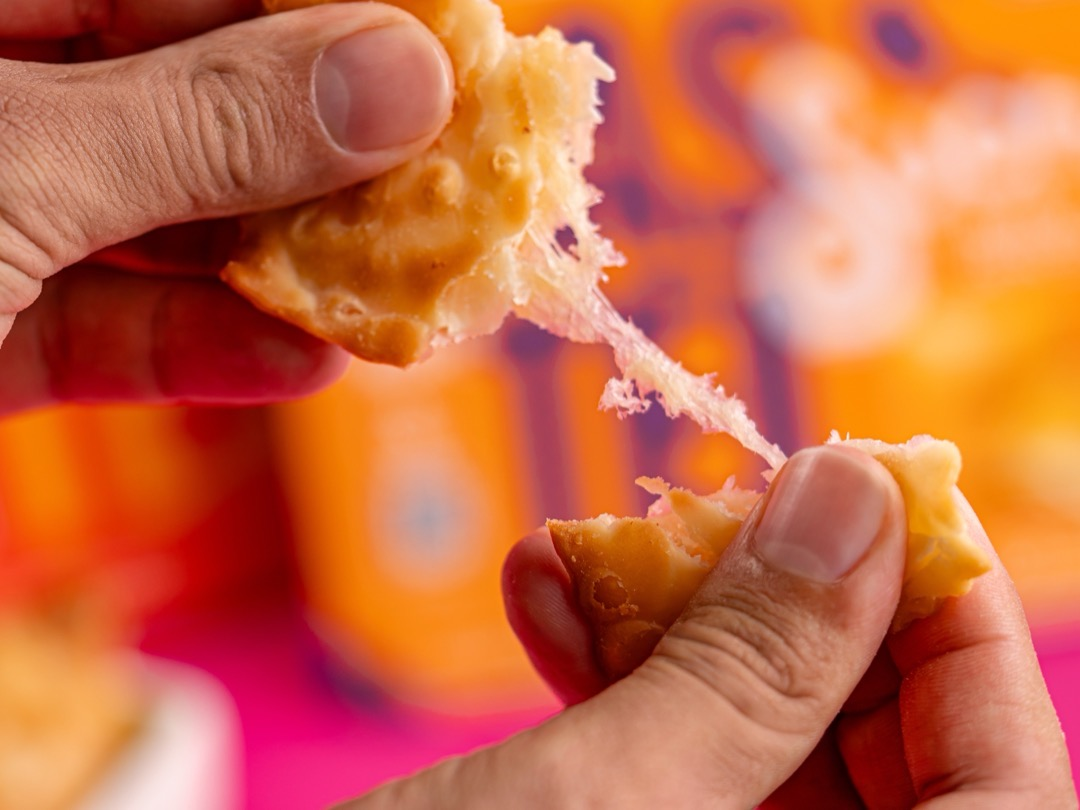
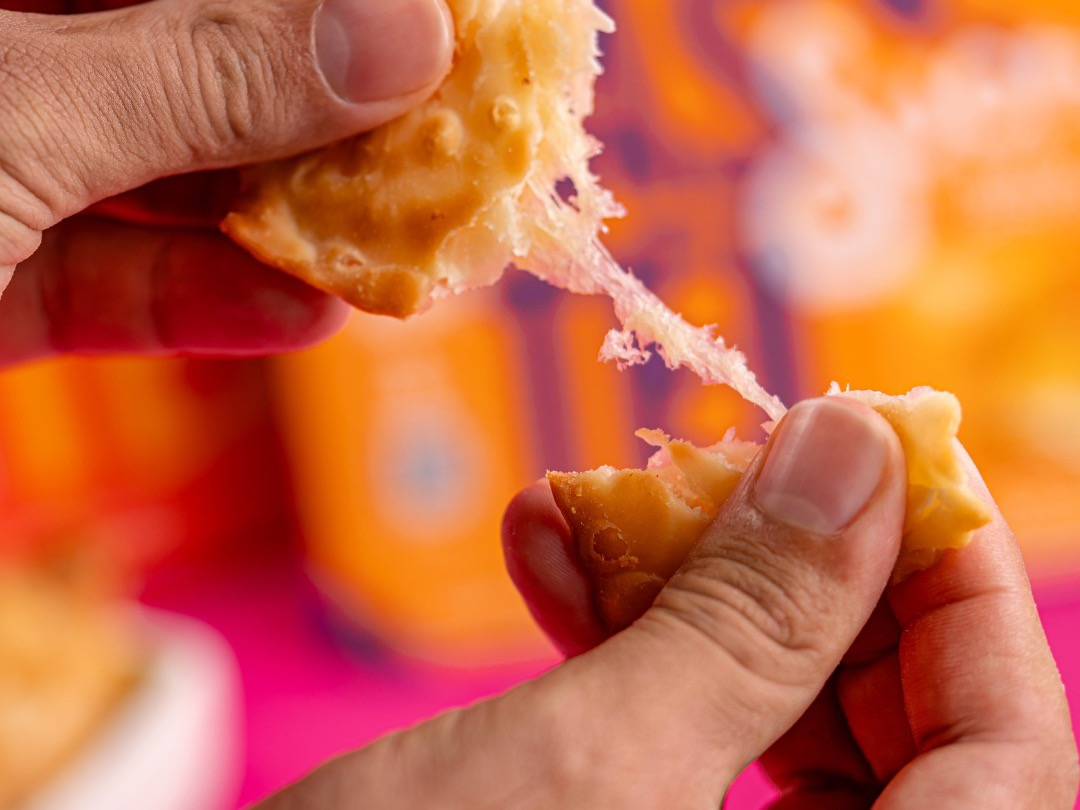
Fotos appetite v2 (anexos da Lia): Bolaço mordido com prime rib entra na seção e no hover do card; coxinha de frango e pastel atualizados; grid 4:5

diff --git a/index.html b/index.html
@@ -19,7 +19,7 @@
   <link rel="preconnect" href="https://fonts.googleapis.com" />
   <link rel="preconnect" href="https://fonts.gstatic.com" crossorigin />
   <link href="https://fonts.googleapis.com/css2?family=Fredoka:wght@400;500;600;700&family=Nunito:wght@400;600;700;800&display=swap" rel="stylesheet" />
-  <link rel="stylesheet" href="styles.css?v=13" />
+  <link rel="stylesheet" href="styles.css?v=14" />
 </head>
 <body>
   <a class="skip-link" href="#conteudo">Pular para o conteúdo</a>
@@ -150,20 +150,21 @@
         <div class="products__grid">
           <article class="card">
             <a class="card__link" href="minicoxinha.html">
-              <img class="card__media card__media--pronto" src="images/card-coxinha-pronto.jpg" alt="" aria-hidden="true" width="1080" height="810" loading="lazy" decoding="async" />
+              <img class="card__media card__media--pronto" src="images/card-coxinha-pronto.jpg?v=2" alt="" aria-hidden="true" width="1080" height="810" loading="lazy" decoding="async" />
               <img class="card__media" src="images/card-coxinha.jpg?v=4" alt="Três embalagens de mini coxinha Sucré, sabores carne de sol, frango e 3 queijos, sobre o degradê rosa da marca" width="1080" height="810" loading="lazy" decoding="async" />
               <div class="card__body"><h3>Mini Coxinha é Sucré</h3><p>A pioneira. Massa de mandioca da agricultura familiar, a original desde 2014.</p><span class="link-arrow">Conhecer a mini coxinha →</span></div>
             </a>
           </article>
           <article class="card">
             <a class="card__link" href="minipasteis.html">
-              <img class="card__media card__media--pronto" src="images/card-pastel-pronto.jpg" alt="" aria-hidden="true" width="1080" height="810" loading="lazy" decoding="async" />
+              <img class="card__media card__media--pronto" src="images/card-pastel-pronto.jpg?v=2" alt="" aria-hidden="true" width="1080" height="810" loading="lazy" decoding="async" />
               <img class="card__media" src="images/card-pastel.jpg?v=5" alt="Três embalagens de mini pastel Sucré, sabores costelinha bovina, queijo cremoso e camarão, sobre o degradê rosa da marca" width="1080" height="810" loading="lazy" decoding="async" />
               <div class="card__body"><h3>Mini pastéis</h3><p>Prontos em minutos, no forno ou na airfryer. O lanche que salva o dia.</p><span class="link-arrow">Conhecer os mini pastéis →</span></div>
             </a>
           </article>
           <article class="card">
             <a class="card__link" href="bolaco.html">
+              <img class="card__media card__media--pronto" src="images/card-bolaco-pronto.jpg" alt="" aria-hidden="true" width="1080" height="810" loading="lazy" decoding="async" />
               <img class="card__media" src="images/card-bolaco.jpg?v=3" alt="Embalagem premium do Bolaço Prime Rib sobre o degradê rosa da marca" width="1080" height="810" loading="lazy" decoding="async" />
               <div class="card__body"><h3>Bolaço</h3><p>É mais que bolinha: massa de mandioca recheada, crocante, pronta em 8 minutos.</p><span class="link-arrow">Conhecer o Bolaço →</span></div>
             </a>
@@ -180,9 +181,9 @@
           <h2>Crocante por fora, cremoso por dentro.</h2>
         </div>
         <div class="appetite__grid">
-          <img src="images/pronto-coxinha.jpg" alt="Mini coxinha 3 queijos mordida mostrando o recheio cremoso, com a embalagem amarela Sucré e uma tigela de coxinhas douradas ao fundo" width="900" height="1350" loading="lazy" decoding="async" />
-          <img src="images/pronto-coxinha-puxada.jpg" alt="Mãos partindo uma mini coxinha Sucré com o queijo puxando um fio, sobre o fundo rosa da marca" width="900" height="1350" loading="lazy" decoding="async" />
-          <img src="images/pronto-pastel.jpg" alt="Mãos partindo um mini pastel Sucré crocante com o queijo derretido esticando entre as metades" width="900" height="1350" loading="lazy" decoding="async" />
+          <img src="images/pronto-coxinha.jpg?v=2" alt="Mini coxinha de frango mordida mostrando o recheio, com a embalagem branca Sucré Frango e a bandeja de coxinhas douradas ao fundo" width="1080" height="1350" loading="lazy" decoding="async" />
+          <img src="images/pronto-pastel.jpg?v=2" alt="Mãos partindo um mini pastel Sucré crocante com o queijo derretido esticando entre as metades" width="1080" height="1350" loading="lazy" decoding="async" />
+          <img src="images/pronto-bolaco.jpg?v=2" alt="Bolaço mordido mostrando o recheio de prime rib desfiado, com a embalagem preta premium e a tigela de bolaços ao fundo" width="1080" height="1350" loading="lazy" decoding="async" />
         </div>
       </div>
     </section>

diff --git a/styles.css b/styles.css
@@ -211,7 +211,7 @@ img.story__media{object-position:50% 26%}
 /* Appetite appeal — "saiu do forno" (fotos do ensaio jan/26, retrato) */
 .appetite{padding:clamp(3rem,6vw,5rem) 0;background:#fff}
 .appetite__grid{display:grid;grid-template-columns:repeat(3,1fr);gap:1.2rem}
-.appetite__grid img{width:100%;aspect-ratio:3/4;object-fit:cover;border-radius:var(--radius);box-shadow:var(--shadow-sm);transition:transform .18s ease}
+.appetite__grid img{width:100%;aspect-ratio:4/5;object-fit:cover;border-radius:var(--radius);box-shadow:var(--shadow-sm);transition:transform .18s ease}
 .appetite__grid img:hover{transform:scale(1.02) rotate(-.5deg)}
 @media (max-width:900px){.appetite__grid{grid-template-columns:1fr}.appetite__grid img{aspect-ratio:4/3}}
 /* hover-swap dos cards: quando existir a foto do produto pronto */

diff --git a/privacidade.html b/privacidade.html
@@ -11,7 +11,7 @@
   <link rel="preconnect" href="https://fonts.googleapis.com" />
   <link rel="preconnect" href="https://fonts.gstatic.com" crossorigin />
   <link href="https://fonts.googleapis.com/css2?family=Fredoka:wght@400;500;600;700&family=Nunito:wght@400;600;700;800&display=swap" rel="stylesheet" />
-  <link rel="stylesheet" href="styles.css?v=13" />
+  <link rel="stylesheet" href="styles.css?v=14" />
   <style>.legal{max-width:760px;margin:0 auto;padding:3rem 1.5rem 4rem}.legal h1{font-size:clamp(1.9rem,4vw,2.6rem)}.legal h2{font-size:1.25rem;margin-top:2rem}.legal p,.legal li{color:var(--muted);font-weight:600}.legal strong{color:var(--ink)}</style>
 </head>
 <body>

diff --git a/bolaco.html b/bolaco.html
@@ -16,7 +16,7 @@
   <link rel="preconnect" href="https://fonts.googleapis.com" />
   <link rel="preconnect" href="https://fonts.gstatic.com" crossorigin />
   <link href="https://fonts.googleapis.com/css2?family=Fredoka:wght@400;500;600;700&family=Nunito:wght@400;600;700;800&display=swap" rel="stylesheet" />
-  <link rel="stylesheet" href="styles.css?v=13" />
+  <link rel="stylesheet" href="styles.css?v=14" />
 </head>
 <body>
   <a class="skip-link" href="#conteudo">Pular para o conteúdo</a>

diff --git a/minicoxinha.html b/minicoxinha.html
@@ -16,7 +16,7 @@
   <link rel="preconnect" href="https://fonts.googleapis.com" />
   <link rel="preconnect" href="https://fonts.gstatic.com" crossorigin />
   <link href="https://fonts.googleapis.com/css2?family=Fredoka:wght@400;500;600;700&family=Nunito:wght@400;600;700;800&display=swap" rel="stylesheet" />
-  <link rel="stylesheet" href="styles.css?v=13" />
+  <link rel="stylesheet" href="styles.css?v=14" />
 </head>
 <body>
   <a class="skip-link" href="#conteudo">Pular para o conteúdo</a>

diff --git a/minipasteis.html b/minipasteis.html
@@ -16,7 +16,7 @@
   <link rel="preconnect" href="https://fonts.googleapis.com" />
   <link rel="preconnect" href="https://fonts.gstatic.com" crossorigin />
   <link href="https://fonts.googleapis.com/css2?family=Fredoka:wght@400;500;600;700&family=Nunito:wght@400;600;700;800&display=swap" rel="stylesheet" />
-  <link rel="stylesheet" href="styles.css?v=13" />
+  <link rel="stylesheet" href="styles.css?v=14" />
 </head>
 <body>
   <a class="skip-link" href="#conteudo">Pular para o conteúdo</a>
